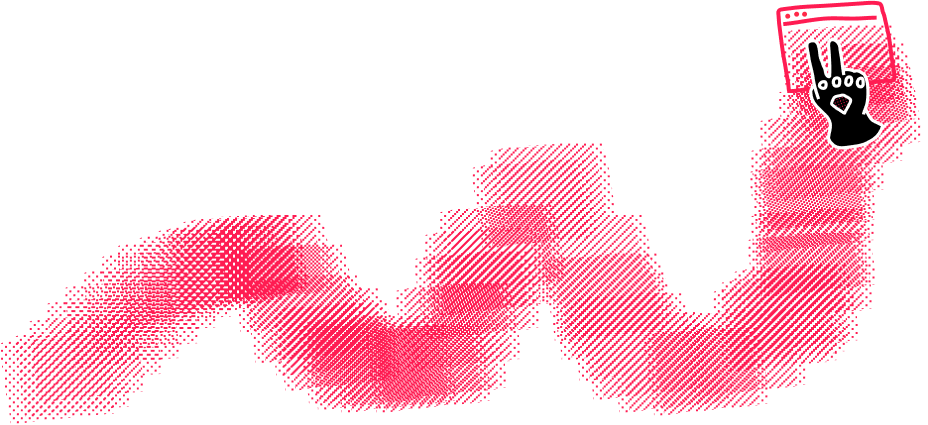
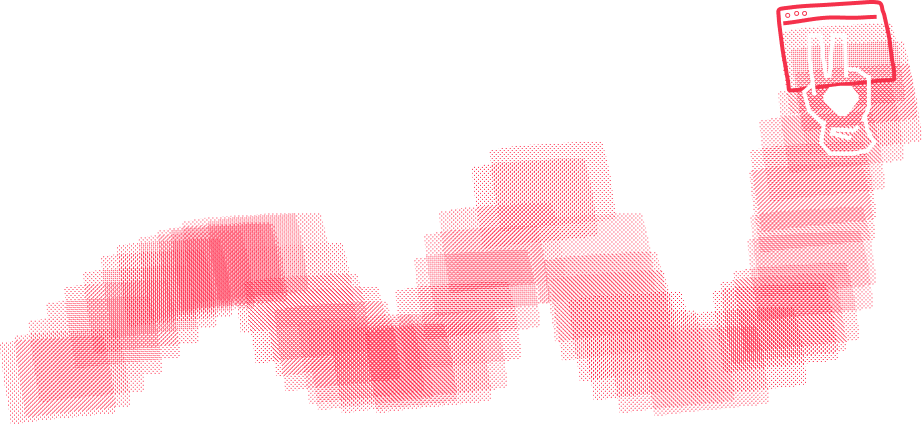
Replace images/home/thread_safe.png, change text styles

diff --git a/src/views/Home/sections/About/ThreadSafe.vue b/src/views/Home/sections/About/ThreadSafe.vue
@@ -48,7 +48,7 @@ export default {
     }
   }
   &__title {
-    margin-bottom: 48px;
+    margin-bottom: 32px;
     @include sm {
       margin-bottom: 24px;
     }
@@ -57,8 +57,8 @@ export default {
     }
   }
   &__text {
-    max-width: 665px;
-    line-height: 1.6;
+    max-width: 560px;
+    line-height: 32px;
     margin: 0;
     @include xs {
       margin-bottom: 48px;
